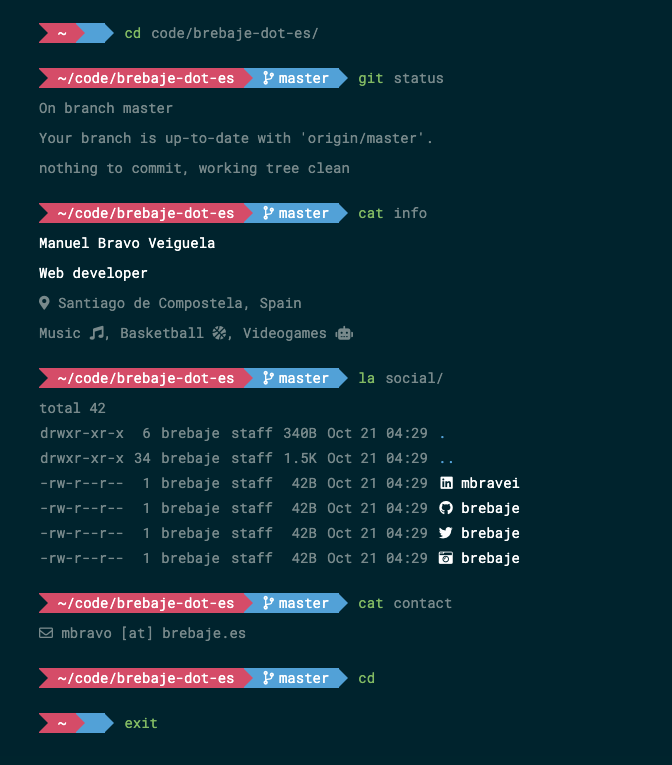
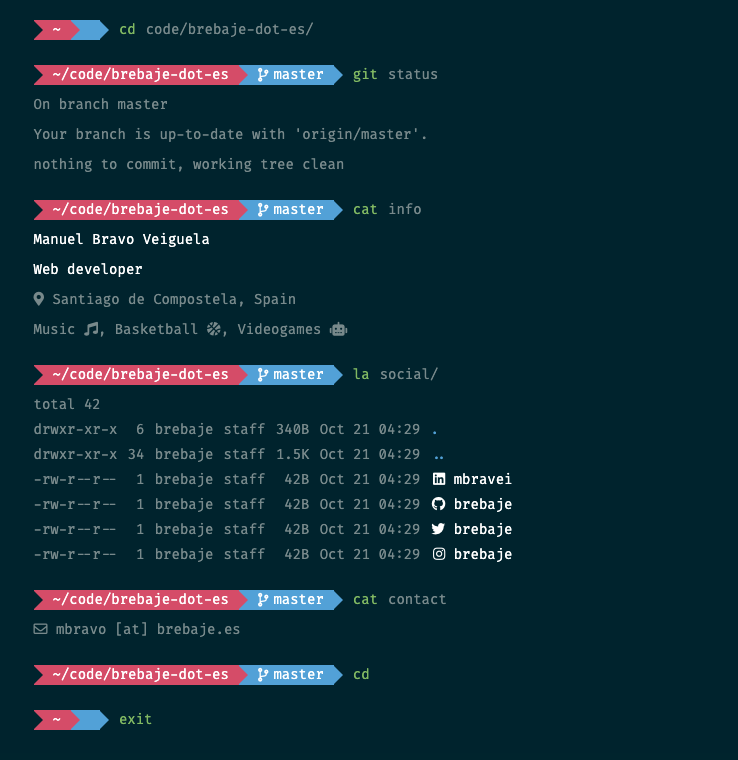
Fixing display on low resolution screens

Changed region(s): [[0.0312, 0.0, 0.7812, 0.9684]]

diff --git a/css/style.scss b/css/style.scss
@@ -3,8 +3,8 @@
 body {
   background-color: $background;
   font-family: $font;
-  font-feature-settings: "calt" 1;
-  font-variant-ligatures: contextual;
+  font-feature-settings: "calt" 1; // IE 10+, Edge
+  font-variant-ligatures: contextual; // CodeMirror
   padding: 15px 15px 25px;
   font-size: 10px;
 
@@ -23,7 +23,7 @@ body {
     p {
       align-items: center;
       display: flex;
-      height: 20px;
+      flex-wrap: wrap;
       line-height: 20px;
 
       span {

diff --git a/css/style.css b/css/style.css
@@ -22,7 +22,7 @@ body .command {
 body .command p {
   align-items: center;
   display: flex;
-  height: 20px;
+  flex-wrap: wrap;
   line-height: 20px;
 }
 body .command p span {
